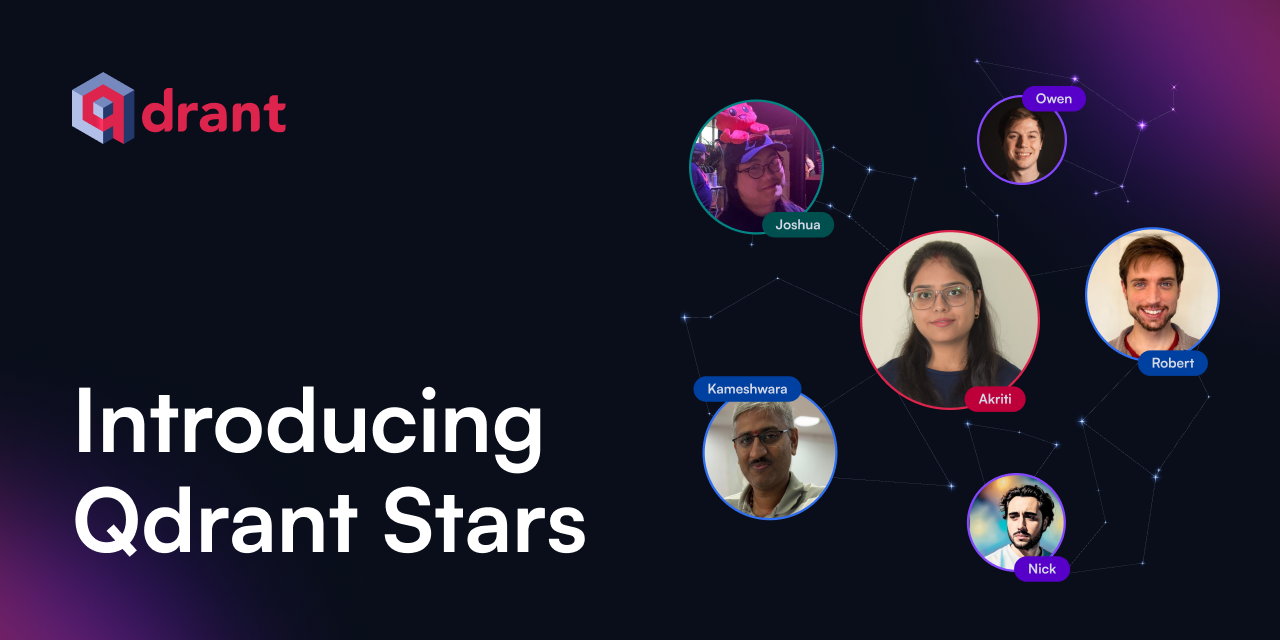
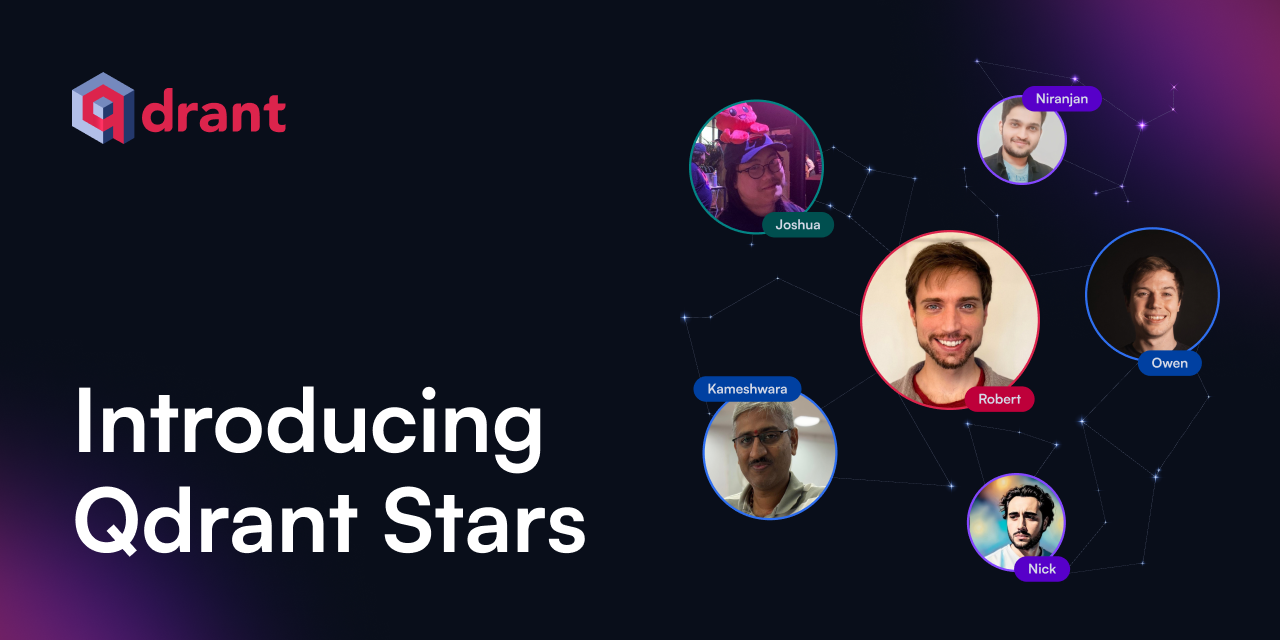
final version with Stars

Changed region(s): [[0.6875, 0.375, 0.8125, 0.6562], [0.8438, 0.3438, 0.9688, 0.5938], [0.75, 0.125, 0.875, 0.2812]]

diff --git a/qdrant-landing/content/blog/qdrant-stars-announcement.md b/qdrant-landing/content/blog/qdrant-stars-announcement.md
@@ -2,173 +2,181 @@
 title: "Introducing Qdrant Stars: Join Our Ambassador Program!"
 draft: false
 slug: qdrant-stars-announcement # Change this slug to your page slug if needed
-short_description:  Qdrant Stars recognizes and supports key contributors to the Qdrant ecosystem through content creation and community leadership. # Change this
+short_description: Qdrant Stars recognizes and supports key contributors to the Qdrant ecosystem through content creation and community leadership. # Change this
 description: Say hello to the first Qdrant Stars and learn more about our new ambassador program!
-preview_image: /blog/qdrant-stars-announcement/preview-image.png 
-social_preview_image: /blog/qdrant-stars-announcement/preview-image.png 
+preview_image: /blog/qdrant-stars-announcement/preview-image.png
+social_preview_image: /blog/qdrant-stars-announcement/preview-image.png
 
-
-date: 2024-05-15T16:57:37-03:00
-author: Sabrina Aquino 
+date: 2024-05-19T11:57:37-03:00
+author: Sabrina Aquino
 featured: true
-tags: 
+tags:
   - news
   - vector search
   - qdrant
   - ambassador program
   - community
-
 ---
 
-We're excited to introduce Qdrant Stars, our new ambassador program to recognize and support our most engaged community members. This initiative highlights Qdrant community members who have been significantly contributing to the AI ecosystem through discussions, informative content creation, and educational events.
+We're excited to introduce **Qdrant Stars**, our new ambassador program created to recognize and support Qdrant users making a strong impact in the AI and vector search space. 
 
+Whether through innovative content, real-world applications tutorials, educational events, or engaging discussions, they are constantly making vector search more accessible and interesting to explore.
 
-### Say 👋 Hello to the Qdrant Stars!
+### 👋 Say hello to the first Qdrant Stars! 
 
 Our inaugural Qdrant Stars are a diverse and talented lineup who have shown exceptional dedication to our community. You might recognize some of their names:
 
 <div style="display: flex; flex-direction: column;">
 <div class="qdrant-stars">
-
+<div style="display: flex; align-items: center;">
+  <h5>Robert Caulk</h5>
+  <a href="https://www.linkedin.com/in/rcaulk/" target="_blank"><img src="/blog/qdrant-stars-announcement/In-Blue-40.png" alt="Robert LinkedIn" style="margin-left:10px; width: 20px; height: 20px;"></a>
+  </div>
+  <div style="display: flex; align-items: center; margin-bottom: 20px;">
+    <img src="/blog/qdrant-stars-announcement/robert-caulk-profile.jpeg" alt="Robert Caulk" style="width: 200px; height: 200px; object-fit: cover; object-position: center; margin-right: 20px; margin-top: 20px;">
+    <div>
+      <p>Robert is working with a team on <a href="asknews.app">AskNews</a> to adaptively enrich, index, and report on over 1 million news articles per day. His team maintains an open-source tool geared toward cluster orchestration <a href="https://flowdapt.ai">Flowdapt</a>, which moves data around highly parallelized production environments. This is why Robert and his team rely on Qdrant for low-latency, scalable, hybrid search across dense and sparse vectors in asynchronous environments.</p>
+    </div>
+  </div>
+  <blockquote>
+  I am interested in brainstorming innovative ways to interact with Qdrant vector databases and building presentations that show the power of coupling Flowdapt with Qdrant for large-scale production GenAI applications. I look forward to networking with Qdrant experts and users so that I can learn from their experience.
   </blockquote>
-  <h5>Joshua Mo</h5>
+
+  <div style="display: flex; align-items: center;">
+  <h5>Joshua Mo</h5> 
+  <a href="https://www.linkedin.com/in/joshua-mo-4146aa220/" target="_blank"><img src="/blog/qdrant-stars-announcement/In-Blue-40.png" alt="Josh LinkedIn" style="margin-left:10px; width: 20px; height: 20px;"></a>
+  </div>
   <div style="display: flex; align-items: center; margin-bottom: 20px;">
     <img src="/blog/qdrant-stars-announcement/Josh-Mo-profile.jpg" alt="Josh" style="width: 200px; height: 200px; object-fit: cover; object-position: center; margin-right: 20px; margin-top: 20px;">
     <div>
-      <p>Josh is a Rust developer and DevRel Engineer at <a href="https://shuttle.rs">Shuttle.rs</a>, assisting with user engagement and being a point of contact for first-line information within the community. He's often writing educational content that combines Javascript with Rust and is a coach at Codebar, which is a charity that runs free programming workshops for minority groups within tech.</p>
+      <p>Josh is a Rust developer and DevRel Engineer at <a href="https://shuttle.rs">Shuttle</a>, assisting with user engagement and being a point of contact for first-line information within the community. He's often writing educational content that combines Javascript with Rust and is a coach at Codebar, which is a charity that runs free programming workshops for minority groups within tech.</p>
     </div>
   </div>
   <blockquote> 
   I am excited about getting access to Qdrant's new features and contributing to the AI community by demonstrating how those features can be leveraged for production environments.
   </blockquote>
 
+  <div style="display: flex; align-items: center;">
   <h5>Nicholas Khami</h5>
+  <a href="https://www.linkedin.com/in/nicholas-khami-5a0a7a135/" target="_blank"><img src="/blog/qdrant-stars-announcement/In-Blue-40.png" alt="Nick LinkedIn" style="margin-left:10px; width: 20px; height: 20px;"></a>
+  </div>
   <div style="display: flex; align-items: center; margin-bottom: 20px;">
     <img src="/blog/qdrant-stars-announcement/ai-headshot-Nick-K.jpg" alt="Nick" style="width: 200px; height: 200px; object-fit: cover; object-position: center; margin-right: 20px; margin-top: 20px;">
     <div>
-      <p>Nick is a founder and product engineer at Trieve and has been using Qdrant since late 2022. He has a low level understanding of the Qdrant API, especially the Rust client, and knows a lot about how to make the most of Qdrant on an application level.</p>
+      <p>Nick is a founder and product engineer at <a href="https://trieve.ai/">Trieve</a>  and has been using Qdrant since late 2022. He has a low level understanding of the Qdrant API, especially the Rust client, and knows a lot about how to make the most of Qdrant on an application level.</p>
     </div>
   </div>
       <blockquote>
       I'm looking forward to be helping folks use lesser known features to enhance and make their projects better! 
       </blockquote>
+  <div style="display: flex; align-items: center;">
   <h5>Owen Colegrove</h5>
+  <a href="https://www.linkedin.com/in/owencolegrove/" target="_blank"><img src="/blog/qdrant-stars-announcement/In-Blue-40.png" alt="Owen LinkedIn" style="margin-left:10px; width: 20px; height: 20px;"></a>
+  </div>
   <div style="display: flex; align-items: center; margin-bottom: 20px;">
     <img src="/blog/qdrant-stars-announcement/Prof-Owen-Colegrove.jpeg" alt="Owen Colegrove" style="width: 200px; height: 200px; object-fit: cover; object-position: center; margin-right: 20px; margin-top: 20px;">
     <div>
-      <p>Owen Colegrove is the Co-Founder of SciPhi, making it easy build, deploy, and scale RAG systems using Qdrant vector search tecnology. He has Ph.D. in Physics and was previously a Quantitative Strategist at Citadel and a Researcher at CERN.</p>
+      <p>Owen Colegrove is the Co-Founder of <a href="https://www.sciphi.ai/">SciPhi</a>, making it easy build, deploy, and scale RAG systems using Qdrant vector search tecnology. He has Ph.D. in Physics and was previously a Quantitative Strategist at Citadel and a Researcher at CERN.</p>
     </div>
   </div>
   <blockquote>
   I'm excited about working together with Qdrant!
   </blockquote>
+  
+  <div style="display: flex; align-items: center;">
   <h5>Kameshwara Pavan Kumar Mantha</h5>
+  <a href="https://www.linkedin.com/in/kameshwara-pavan-kumar-mantha-91678b21/" target="_blank"><img src="/blog/qdrant-stars-announcement/In-Blue-40.png" alt="Pavan LinkedIn" style="margin-left:10px; width: 20px; height: 20px;"></a>
+  </div>
   <div style="display: flex; align-items: center; margin-bottom: 20px;">
     <img src="/blog/qdrant-stars-announcement/pic-Kameshwara-Pavan-Kumar-Mantha2.jpeg" alt="Kameshwara Pavan" style="width: 200px; height: 200px; object-fit: cover; object-position: center; margin-right: 20px; margin-top: 20px;">
     <div>
-      <p>Kameshwara Pavan is a expert with 14 years of extensive experience in full stack development, cloud solutions, and AI. Specializing in Generative AI and LLMs, Pavan has established himself as a leader in these cutting-edge domains. He holds a Master's in Data Science and a Master's in Computer Applications, and is currently pursuing his PhD.</p>
+      <p>Kameshwara Pavan is a expert with 14 years of extensive experience in full stack development, cloud solutions, and AI. Specializing in Generative AI and LLMs. 
+      Pavan has established himself as a leader in these cutting-edge domains. He holds a Master's in Data Science and a Master's in Computer Applications, and is currently pursuing his PhD.</p>
     </div>
   </div>
     <blockquote>
       Outside of my professional pursuits, I'm passionate about sharing my knowledge through technical blogging, engaging in technical meetups, and staying active with cycling. I admire the groundbreaking work Qdrant is doing in the industry, and I'm eager to collaborate and learn from the team that drives such exceptional advancements.
     </blockquote>
-  <h5>Robert Caulk</h5>
-  <div style="display: flex; align-items: center; margin-bottom: 20px;">
-    <img src="/blog/qdrant-stars-announcement/robert-caulk-profile.jpeg" alt="Robert Caulk" style="width: 200px; height: 200px; object-fit: cover; object-position: center; margin-right: 20px; margin-top: 20px;">
-    <div>
-      <p>Robert is working with a team on AskNews.app to adaptively enrich, index, and report on over 1 million news articles per day. His team maintains an open-source tool geared toward cluster orchestration <a href="https://flowdapt.ai">Flowdapt.ai</a>, which moves data around highly parallelized production environments. This is why Robert and his team rely on Qdrant for low-latency, scalable, hybrid search across dense and sparse vectors in asynchronous environments.</p>
-    </div>
-  </div>
-  <blockquote>
-  I am interested in brainstorming innovative ways to interact with Qdrant vector databases and building presentations that show the power of coupling Flowdapt with Qdrant for large-scale production GenAI applications. I look forward to networking with Qdrant experts and users so that I can learn from their experience.
-  </blockquote>
+
+  <div style="display: flex; align-items: center;">
   <h5>Niranjan Akella</h5>
+  <a href="https://www.linkedin.com/in/niranjanakella/" target="_blank"><img src="/blog/qdrant-stars-announcement/In-Blue-40.png" alt="Niranjan LinkedIn" style="margin-left:10px; width: 20px; height: 20px;"></a>
+  </div>
   <div style="display: flex; align-items: center; margin-bottom: 20px;">
     <img src="/blog/qdrant-stars-announcement/nj-Niranjan-Akella.png" alt="Niranjan Akella" style="width: 200px; height: 200px; object-fit: cover; object-position: center; margin-right: 20px; margin-top: 20px;">
     <div>
-      <p>Niranjan builds and deployes AI models like LLMs, Diffusion Models and Vision Models at scale. He is passionate about applied research to build custom real-time applications that serve a greater purpose.
+      <p>Niranjan is an AI/ML Engineer at <a href="https://www.genesys.com/">Genesys</a> who specializes in building and deploying AI models such as LLMs, Diffusion Models, and Vision Models at scale. He actively shares his projects through content creation and is passionate about applied research, developing custom real-time applications that that serve a greater purpose.
       </p>
     </div>
   </div>
      <blockquote>
       I am a scientist by heart and an AI engineer by profession. I'm always armed to take a leap of faith into the impossible to be come the impossible.  I'm excited to explore and venture into Qdrant Stars with some support to build a broader community and develop a sense of completeness among like minded people.
       </blockquote>
-  <h5>Sumanth</h5>
+
+  <div style="display: flex; align-items: center;">
+  <h5>Bojan Jakimovski</h5>
+  <a href="https://www.linkedin.com/in/bojan-jakimovski/" target="_blank"><img src="/blog/qdrant-stars-announcement/In-Blue-40.png" alt="Bojan LinkedIn" style="margin-left:10px; width: 20px; height: 20px;"></a>
+  </div>
   <div style="display: flex; align-items: center; margin-bottom: 20px;">
-    <img src="/blog/qdrant-stars-announcement/Sumanth-profile.jpg" alt="Sumanth" style="width: 200px; height: 200px; object-fit: cover; object-position: center; margin-right: 20px; margin-top: 20px;">
+    <img src="/blog/qdrant-stars-announcement/Bojan-preview.jpeg" alt="Bojan Jakimovski" style="width: 200px; height: 200px; object-fit: cover; object-position: center; margin-right: 20px; margin-top: 20px;">
     <div>
-      <p>Sumanth is a Machine Learning Developer Advocate at Clarifai. He loves simplifying the concepts of Python, LLMs, Machine Learning and Data Science</p>
+      <p>Bojan is an Advanced Machine Learning Engineer at <a href="https://www.loka.com/">Loka</a> currently pursuing a Master’s Degree focused on applying AI in Heathcare. He is specializing in Dedicated Computer Systems, with a passion for various technology fields.
+</p>
     </div>
   </div>
-
+<blockquote>
+I'm excited to be part of this program. I really enjoy creating content in my free time, especially when working with the newest technologies that can have a significant impact in real life. That's why I see AI in the medical/healthcare field as a really important use case.
+</blockquote>
 </div>
 
+We are happy to welcome this group of people who are deeply committed to advancing vector search technology. We look forward to supporting their vision, and helping them make a bigger impact on the community.
 
-These amazing individuals are passionate about advancing vector search technology. We’re excited to bring them closer to our team, support them, and amplify their contributions to the community.
-
-You'll find them in our [Discord Community](discord.gg/qdrant).
-
-
-
+You can find and chat with them at our [Discord Community](discord.gg/qdrant).
 
 ### Why become a Qdrant Star?
 
 There are many ways you can benefit from the Qdrant Star Program. Here are just a few:
 
-
 ##### Exclusive rewards programs
 
 Celebrate top contributors monthly with special rewards, including exclusive swag and monetary prizes. Quarterly awards for 'Most Innovative Content' and 'Best Tutorial' offer additional prizes.
 
-
 ##### Early access to new features
 
-Be the first to explore and write about our latest features and beta products. Participate in product meetings where your ideas and suggestions can directly influence our roadmap. 
-
+Be the first to explore and write about our latest features and beta products. Participate in product meetings where your ideas and suggestions can directly influence our roadmap.
 
 ##### Conference support
 
 We love seeing our stars on stage! If you're planning to attend and speak about Qdrant at conferences, we've got you covered. Receive presentation templates, mentorship, and educational materials to help deliver standout conference presentations, with travel expenses covered.
 
-
 ##### Qdrant Certification
 
 End the program as a certified Qdrant ambassador and vector search specialist, with provided training resources and a certification test to showcase your expertise.
 
-And, of course, exclusive Qdrant swag.
-
-
-### What Do Qdrant Stars Do?
+### What do Qdrant Stars do?
 
 As a Qdrant Star, you'll share your knowledge with the community through articles, blogs, tutorials, or demos that highlight the power and versatility of vector search technology - in your own creative way. You'll be a friendly face and a trusted expert in the community, sparking discussions on topics you love and keeping our community active and engaged.
 
 Love organizing events? You'll have the chance to host meetups, workshops, and other educational gatherings, with all the promotional and logistical support you need to make them a hit. But if large conferences are your thing, we’ll provide the resources and cover your travel expenses so you can focus on delivering an outstanding presentation.
 
-You'll also have a say in the Qdrant roadmap by giving feedback on new features and participating in product meetings. Qdrant Stars are constantly contributing to the growth and value of the vector search ecosystem. 
-
+You'll also have a say in the Qdrant roadmap by giving feedback on new features and participating in product meetings. Qdrant Stars are constantly contributing to the growth and value of the vector search ecosystem.
 
 ### How to join the Qdrant Stars Program
 
-Interested in becoming a Qdrant Star? [Apply here!](https://forms.gle/q4fkwudDsy16xAZk8)
+Are you interested in becoming a Qdrant Star? 
 
-Tell us more about your journey with vector search technologies and your plans for contributing to our community. We review applications monthly, looking for individuals with strong expertise, community engagement skills, and impact potential.
+We're on the lookout for individuals who are passionate about vector search technology and looking to make an impact in the AI community. 
 
-Eligibility Criteria:
+If you have a strong understanding of vector search technologies, enjoy creating content, speaking at conferences, and actively engage with our community. If this sounds like you, don't hesitate to apply. We look forward to potentially welcoming you as our next Qdrant Star. [Apply here!](https://forms.gle/q4fkwudDsy16xAZk8)
 
-
-
-* Strong understanding of vector search technologies.
-* Passion for contributing to the tech community.
-* Enjoyment in creating content, speaking at conferences, or mentoring.
-
+Share your journey with vector search technologies and how you plan to contribute further.
 
 #### Nominate a Qdrant Star
 
 Do you know someone who could be our next Qdrant Star? Please submit your nomination through our [nomination form](https://forms.gle/n4zv7JRkvnp28qv17), explaining why they're a great fit. Your recommendation could help us find the next standout ambassador.
 
-
 #### Learn More
 
 For detailed information about the program's benefits, activities, and perks, refer to the [Qdrant Stars Handbook](https://qdrant.github.io/qdrant-stars-handbook/).
 
-To connect with current Stars, ask questions, and stay updated on the latest news and events at Qdrant, [join our Discord community](http://discord.gg/qdrant). 
+To connect with current Stars, ask questions, and stay updated on the latest news and events at Qdrant, [join our Discord community](http://discord.gg/qdrant).
